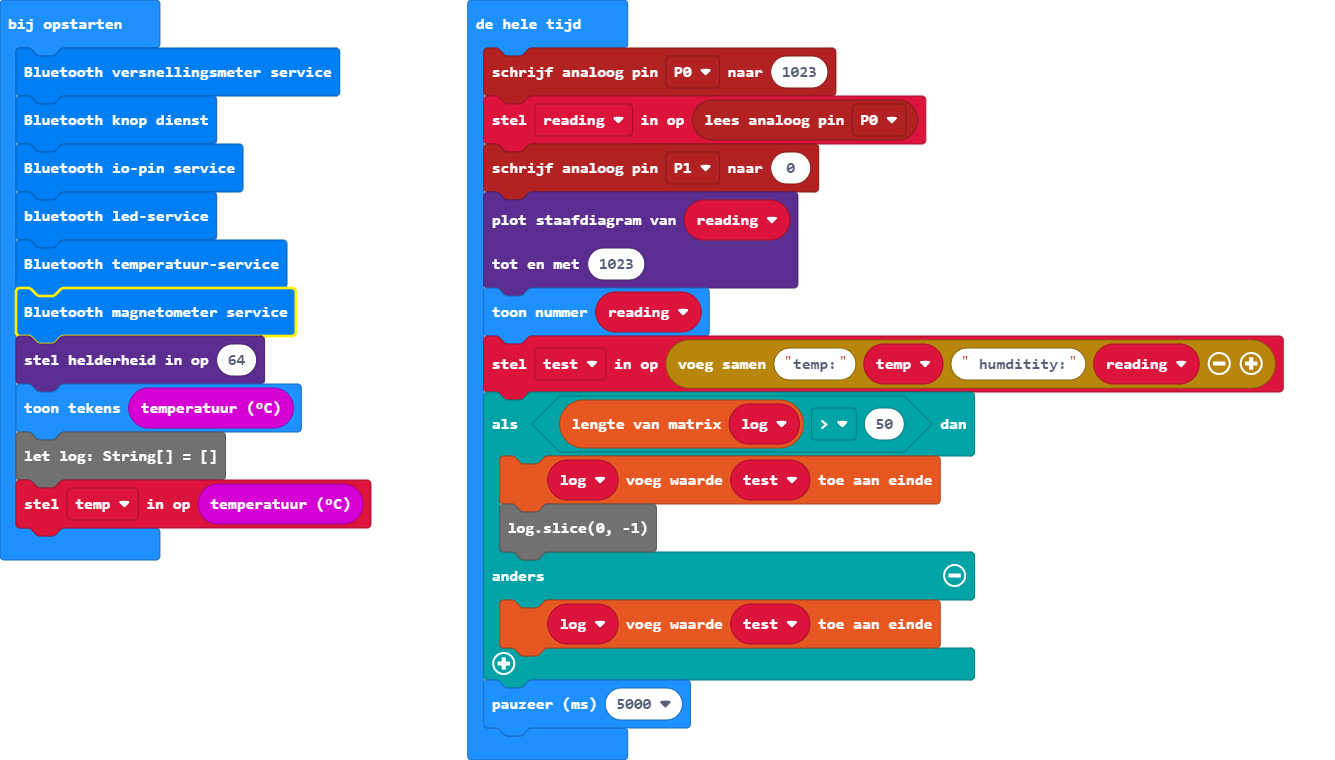
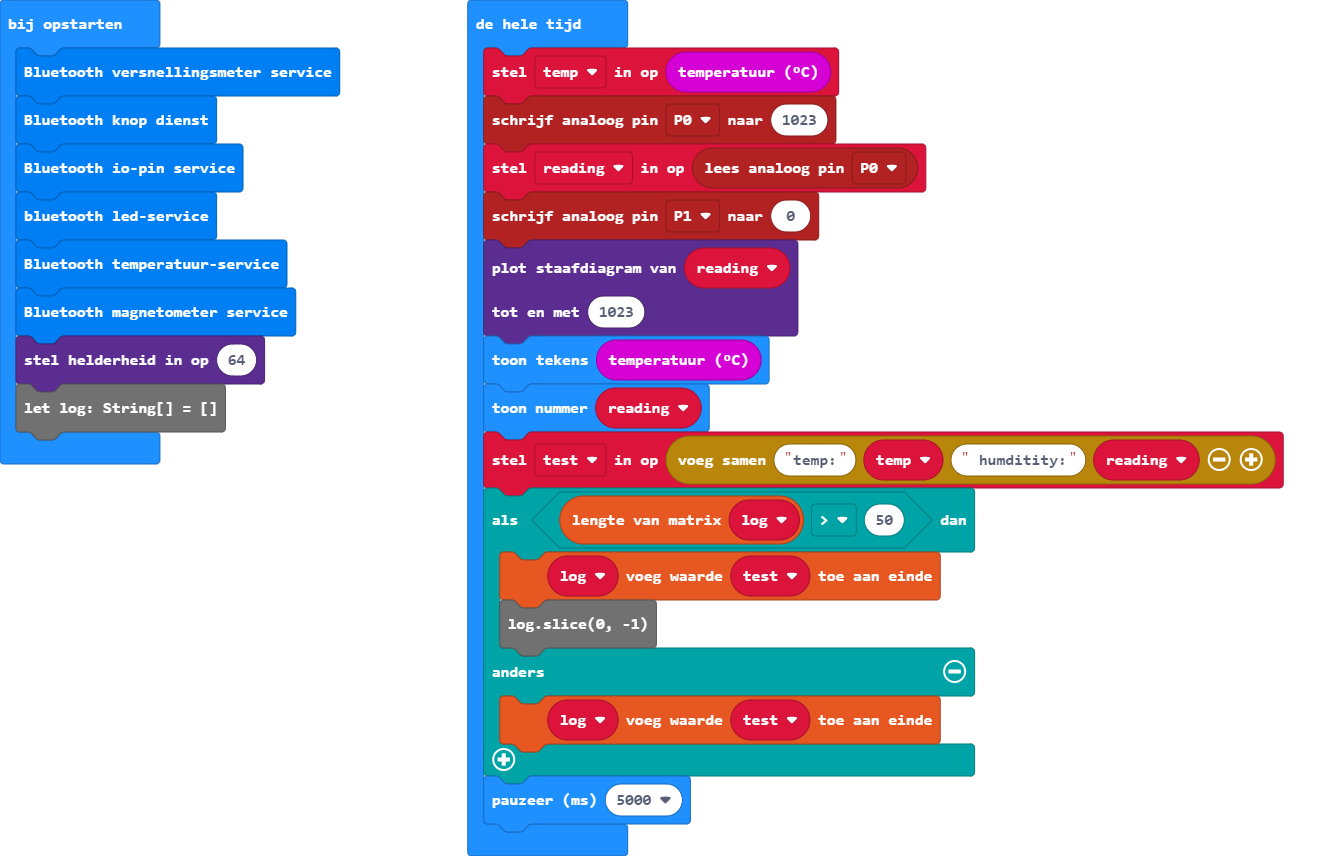
main.blocks, main.ts bijwerken

Changed region(s): [[0.3378, 0.0, 0.9828, 0.9684], [0.0, 0.0, 0.2764, 0.7566]]

diff --git a/main.ts b/main.ts
@@ -1,5 +1,6 @@
 let test = ""
 let reading = 0
+let temp = 0
 bluetooth.startAccelerometerService()
 bluetooth.startButtonService()
 bluetooth.startIOPinService()
@@ -7,10 +8,9 @@ bluetooth.startLEDService()
 bluetooth.startTemperatureService()
 bluetooth.startMagnetometerService()
 led.setBrightness(64)
-basic.showString("" + (input.temperature()))
 let log: String[] = []
-let temp = input.temperature()
 basic.forever(function () {
+    temp = input.temperature()
     pins.analogWritePin(AnalogPin.P0, 1023)
     reading = pins.analogReadPin(AnalogPin.P0)
     pins.analogWritePin(AnalogPin.P1, 0)
@@ -18,6 +18,7 @@ basic.forever(function () {
     reading,
     1023
     )
+    basic.showString("" + (input.temperature()))
     basic.showNumber(reading)
     test = "temp:" + temp + " humditity:" + reading
     if (log.length > 50) {
